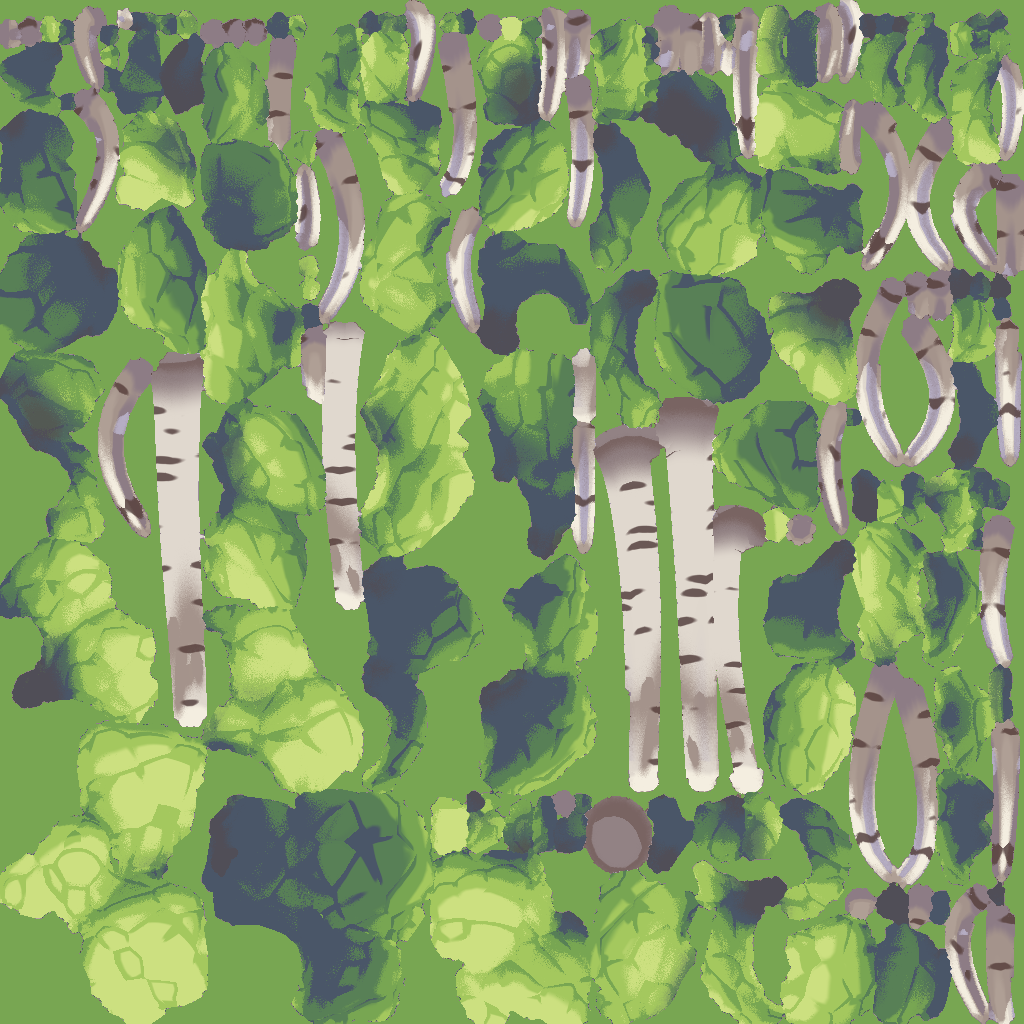
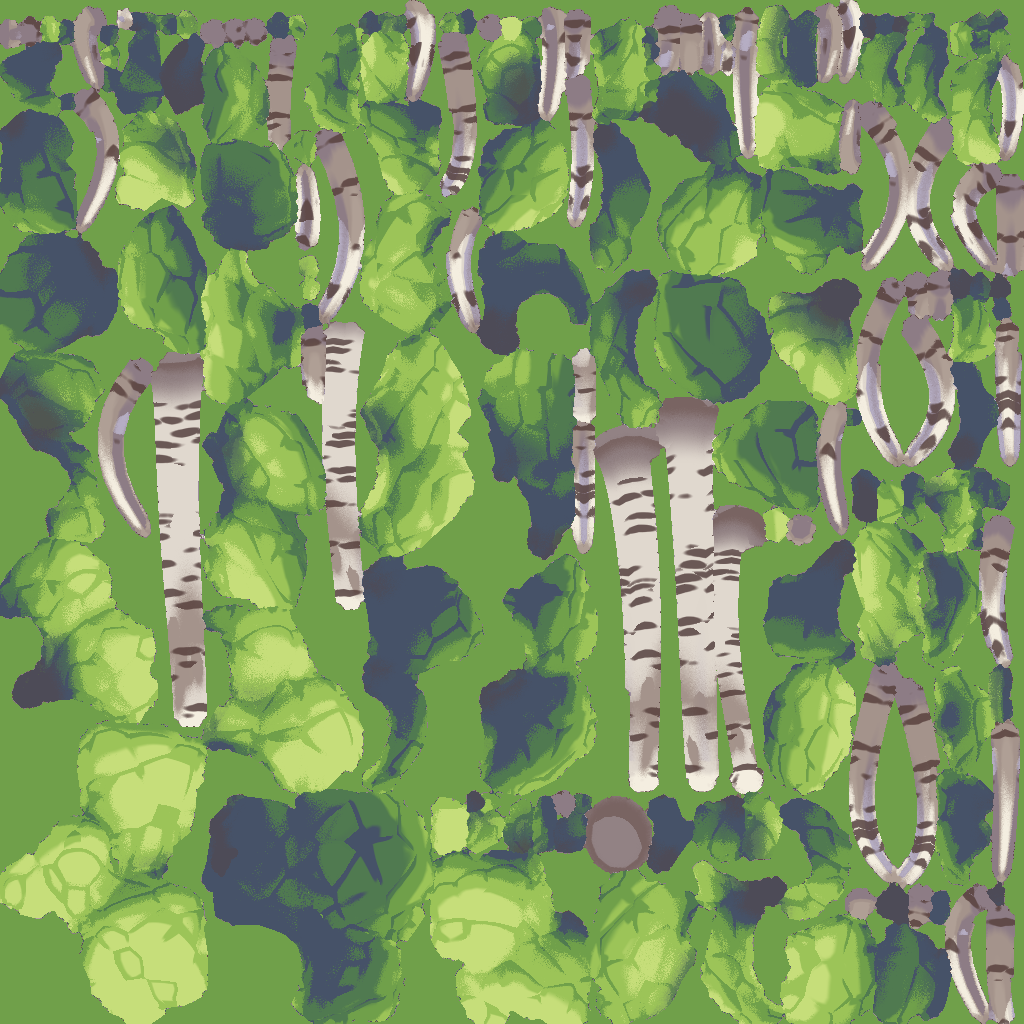
art-rnd-1: trees v3: deeper pine greens, more birch bark marks
Claude-Session: https://claude.ai/code/session_019Ee5efaMp7ec6dhFqQfV6R

diff --git a/tools/art/trees/paint.py b/tools/art/trees/paint.py
@@ -101,12 +101,12 @@ img = np.zeros((SIZE * SIZE, 3))
 COCOA = c(92, 64, 58)
 if TREE == "birch":
     # deep (violet-leaning), shade, mid, lit, highlight
-    LEAF = np.array([c(74, 86, 104), c(88, 128, 86), c(120, 166, 82), c(164, 200, 94), c(204, 224, 128)])
+    LEAF = np.array([c(70, 82, 104), c(80, 122, 80), c(112, 160, 74), c(156, 196, 88), c(198, 222, 122)])
     EDGES = [0.2, 0.42, 0.66, 0.9]
     CLUSTER = np.array([0.36, 0.26, 0.36])
     BARK = dict(lit=c(244, 238, 224), mid=c(224, 216, 206), shade=c(182, 174, 196), mark=c(86, 66, 64), foot=c(146, 130, 132))
 else:
-    LEAF = np.array([c(46, 58, 78), c(50, 86, 74), c(66, 114, 78), c(100, 146, 84), c(138, 176, 102)])
+    LEAF = np.array([c(40, 50, 70), c(42, 74, 66), c(56, 98, 70), c(84, 128, 76), c(120, 158, 92)])
     EDGES = [0.2, 0.42, 0.66, 0.92]
     CLUSTER = np.array([0.3, 0.17, 0.3])
     BARK = dict(lit=c(182, 124, 84), mid=c(148, 96, 68), shade=c(112, 76, 72), mark=c(86, 56, 52), foot=c(120, 84, 66))
@@ -138,8 +138,8 @@ lit = 0.5 + 0.5 * n[:, 1]
 col = ramp(lit, np.array([BARK["shade"], BARK["mid"], BARK["lit"]]), [0.42, 0.62], 0.05)
 if TREE == "birch":
     # A few soft cocoa marks across the trunk, wider than tall, and a darker foot.
-    d1, d2, off, rnd = cells(p, np.array([0.3, 0.13, 0.3]), 31)
-    mark = (rnd < 0.3) * smooth(0.5, 0.36, np.linalg.norm(off / np.array([1.0, 0.28, 1.0]), axis=1) / 0.3) * (p[:, 1] > 0.35)
+    d1, d2, off, rnd = cells(p, np.array([0.26, 0.11, 0.26]), 31)
+    mark = (rnd < 0.5) * smooth(0.5, 0.36, np.linalg.norm(off / np.array([1.0, 0.28, 1.0]), axis=1) / 0.3) * (p[:, 1] > 0.35)
     col = mix(col, np.repeat(BARK["mark"][None], len(a), 0), 0.85 * mark)
     col = mix(col, np.repeat(BARK["foot"][None], len(a), 0), smooth(0.45, 0.12, p[:, 1]))
 else:
